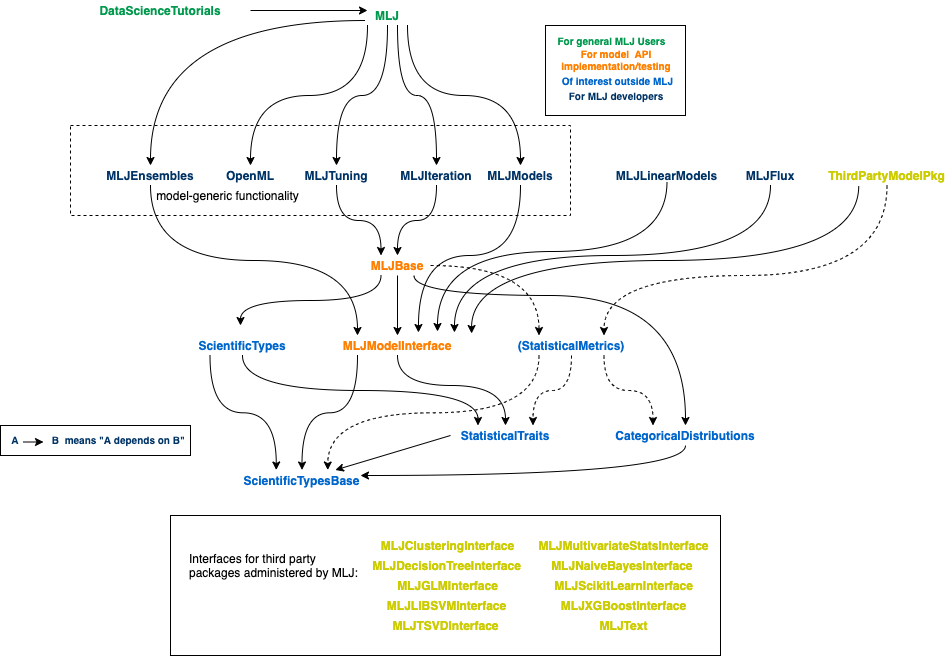
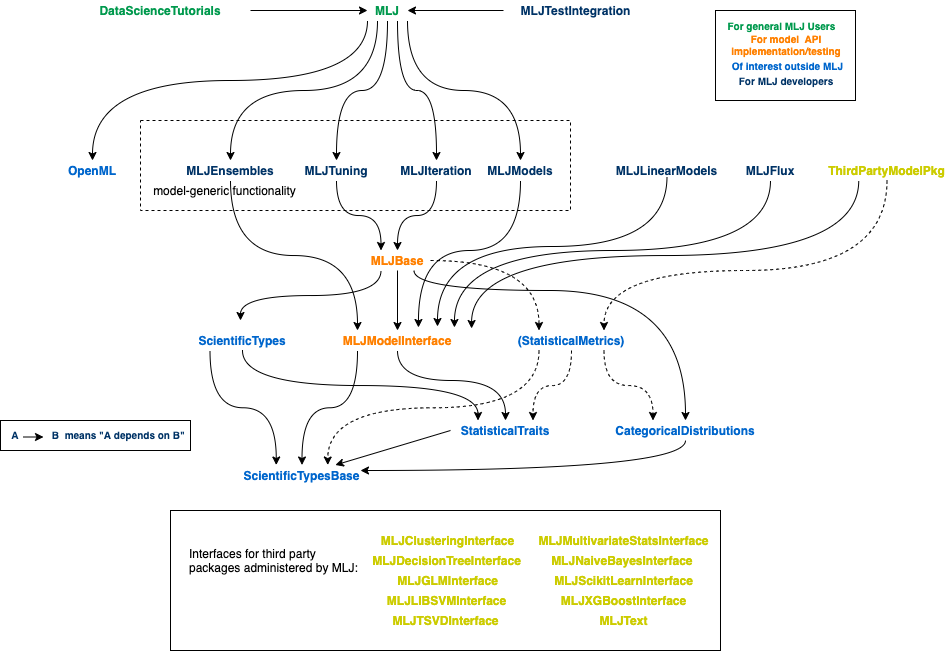
update ORGANIZATION.md and associated diagram

diff --git a/ORGANIZATION.md b/ORGANIZATION.md
@@ -61,10 +61,8 @@ its conventional use, are marked with a ⟂ symbol:
   provides the `IteratedModel` wrapper for controlling iterative
   models (snapshots, early stopping criteria, etc)
   
-* [MLJSerialization.jl](https://github.com/JuliaAI/MLJSerialization.jl)
-  provides functionality for saving MLJ machines to file
-  
-* [MLJOpenML.jl](https://github.com/JuliaAI/MLJOpenML.jl) provides
+* (⟂)
+  [OpenML.jl](https://github.com/JuliaAI/OpenML.jl) provides
   integration with the [OpenML](https://www.openml.org) data science
   exchange platform
   
@@ -89,13 +87,14 @@ its conventional use, are marked with a ⟂ symbol:
   
 * (⟂)
   [ScientificTypes.jl](https://github.com/JuliaAI/ScientificTypes.jl)
-  articulates MLJ's own convention for the scientific interpretation of
-  data.
+  articulates the particular convention for the scientific interpretation of
+  data that MLJ adopts
   
 * (⟂)
   [StatisticalTraits.jl](https://github.com/JuliaAI/StatisticalTraits.jl)
   An ultra lightweight package defining fall-back implementations for
-  a collection of traits possessed by statistical objects.
+  a collection of traits possessed by statistical objects, principally
+  models and measures (metrics).
 
 * (⟂)
   [DataScienceTutorials](https://github.com/alan-turing-institute/DataScienceTutorials.jl)
